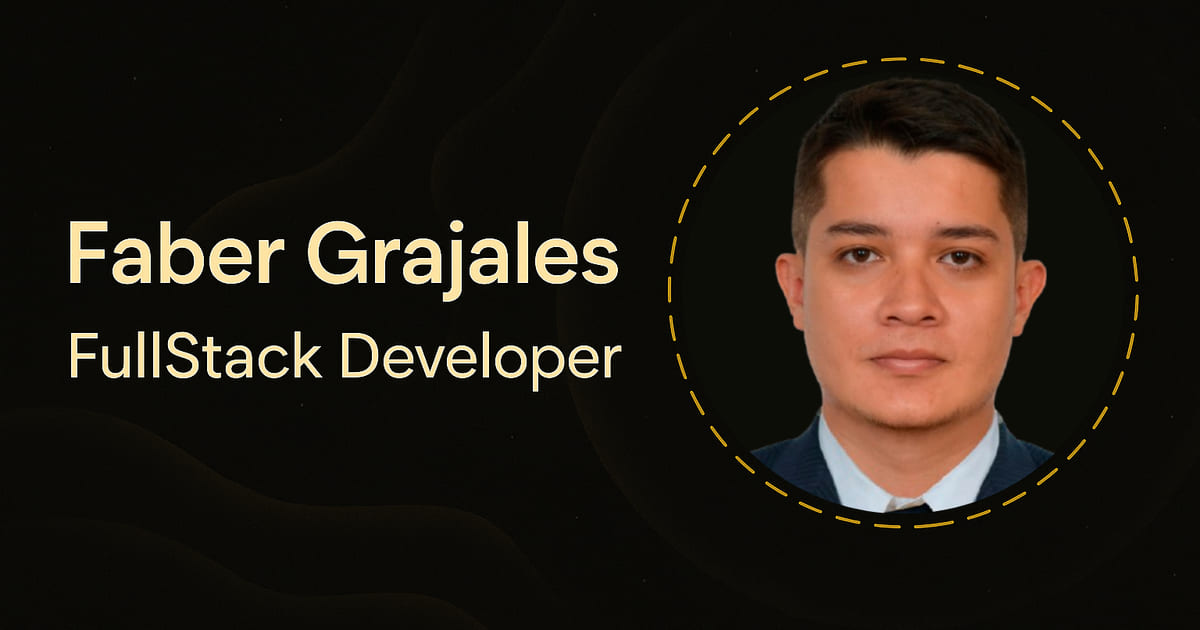
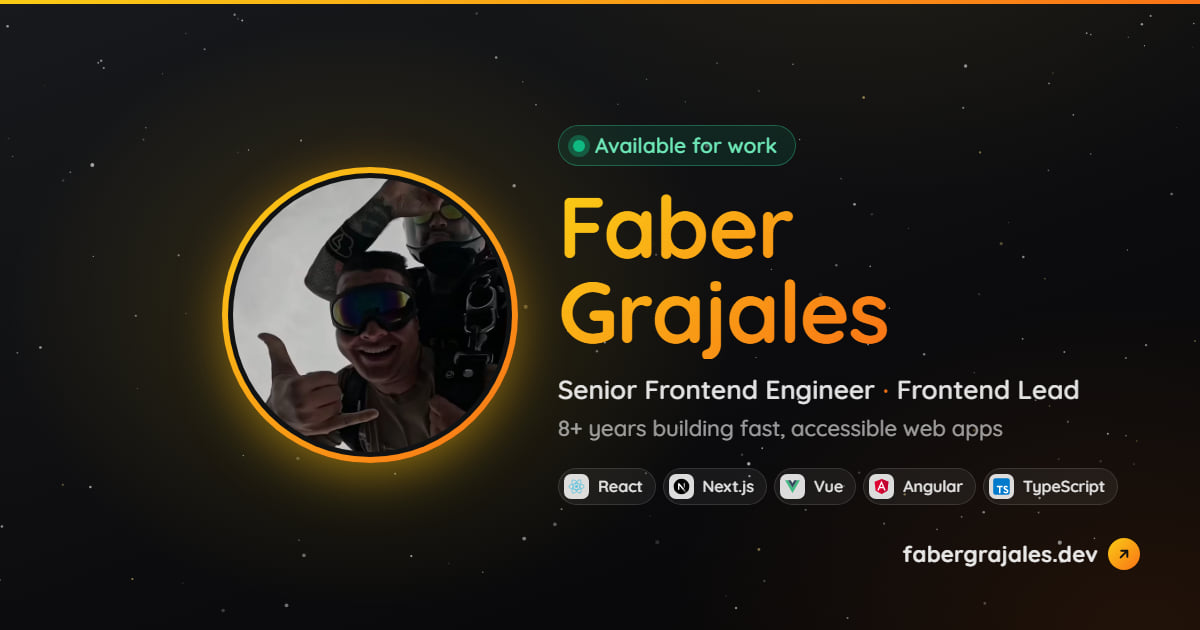
feat: changed og image and header title size

diff --git a/index.html b/index.html
@@ -34,17 +34,17 @@
       content="8+ years building fast, accessible web apps with Vue, React, Angular and TypeScript. Explore my experience, projects and education."
     />
     <meta property="og:url" content="https://fabergrajales.dev/" />
-    <meta property="og:image" content="https://fabergrajales.dev/images/og/portfolio_card.jpg?v=2" />
+    <meta property="og:image" content="https://fabergrajales.dev/images/og/portfolio_card.jpg?v=3" />
     <meta
       property="og:image:secure_url"
-      content="https://fabergrajales.dev/images/og/portfolio_card.jpg?v=2"
+      content="https://fabergrajales.dev/images/og/portfolio_card.jpg?v=3"
     />
     <meta property="og:image:type" content="image/jpeg" />
     <meta property="og:image:width" content="1200" />
     <meta property="og:image:height" content="630" />
     <meta
       property="og:image:alt"
-      content="Faber Grajales, Senior Frontend Developer: portrait next to his name on a dark background"
+      content="Faber Grajales, Senior Frontend Engineer: circular portrait with a yellow-orange ring beside his name, an Available for work badge, React, Next.js, Vue, Angular and TypeScript chips, and fabergrajales.dev on a dark starfield background"
     />
     <meta property="og:locale" content="en_US" />
     <meta property="og:locale:alternate" content="es_ES" />
@@ -56,10 +56,10 @@
       name="twitter:description"
       content="8+ years building fast, accessible web apps with Vue, React, Angular and TypeScript. Explore my experience, projects and education."
     />
-    <meta name="twitter:image" content="https://fabergrajales.dev/images/og/portfolio_card.jpg?v=2" />
+    <meta name="twitter:image" content="https://fabergrajales.dev/images/og/portfolio_card.jpg?v=3" />
     <meta
       name="twitter:image:alt"
-      content="Faber Grajales, Senior Frontend Developer: portrait next to his name on a dark background"
+      content="Faber Grajales, Senior Frontend Engineer: circular portrait with a yellow-orange ring beside his name, an Available for work badge, React, Next.js, Vue, Angular and TypeScript chips, and fabergrajales.dev on a dark starfield background"
     />
 
     <script type="application/ld+json">

diff --git a/src/components/MyHeader.vue b/src/components/MyHeader.vue
@@ -31,7 +31,7 @@ const languages = [
     <RouterLink to="/" custom v-slot="{ href, navigate }">
       <a
         :href="href"
-        class="rounded-md text-lg leading-tight sm:text-xl md:text-2xl title font-bold tracking-tight"
+        class="rounded-md text-xl leading-tight sm:text-2xl md:text-3xl title font-bold tracking-tight"
         @click="navigate"
       >
         {{ $t('header.portfolio') }}
